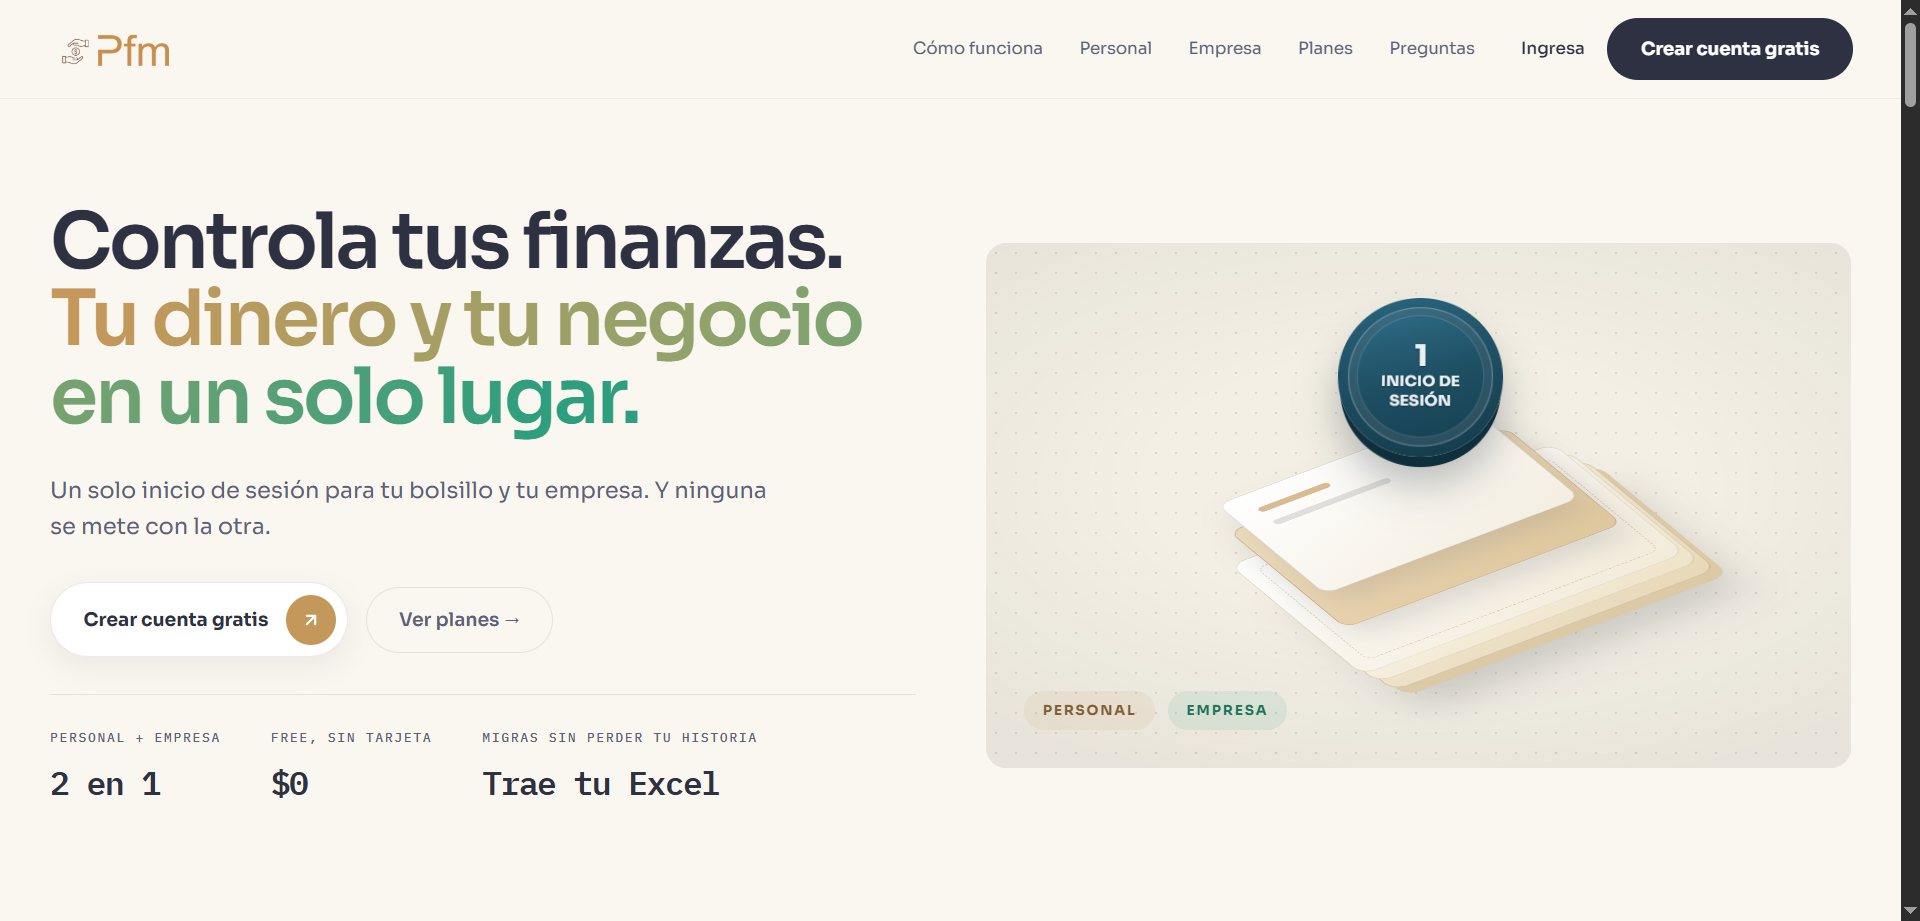
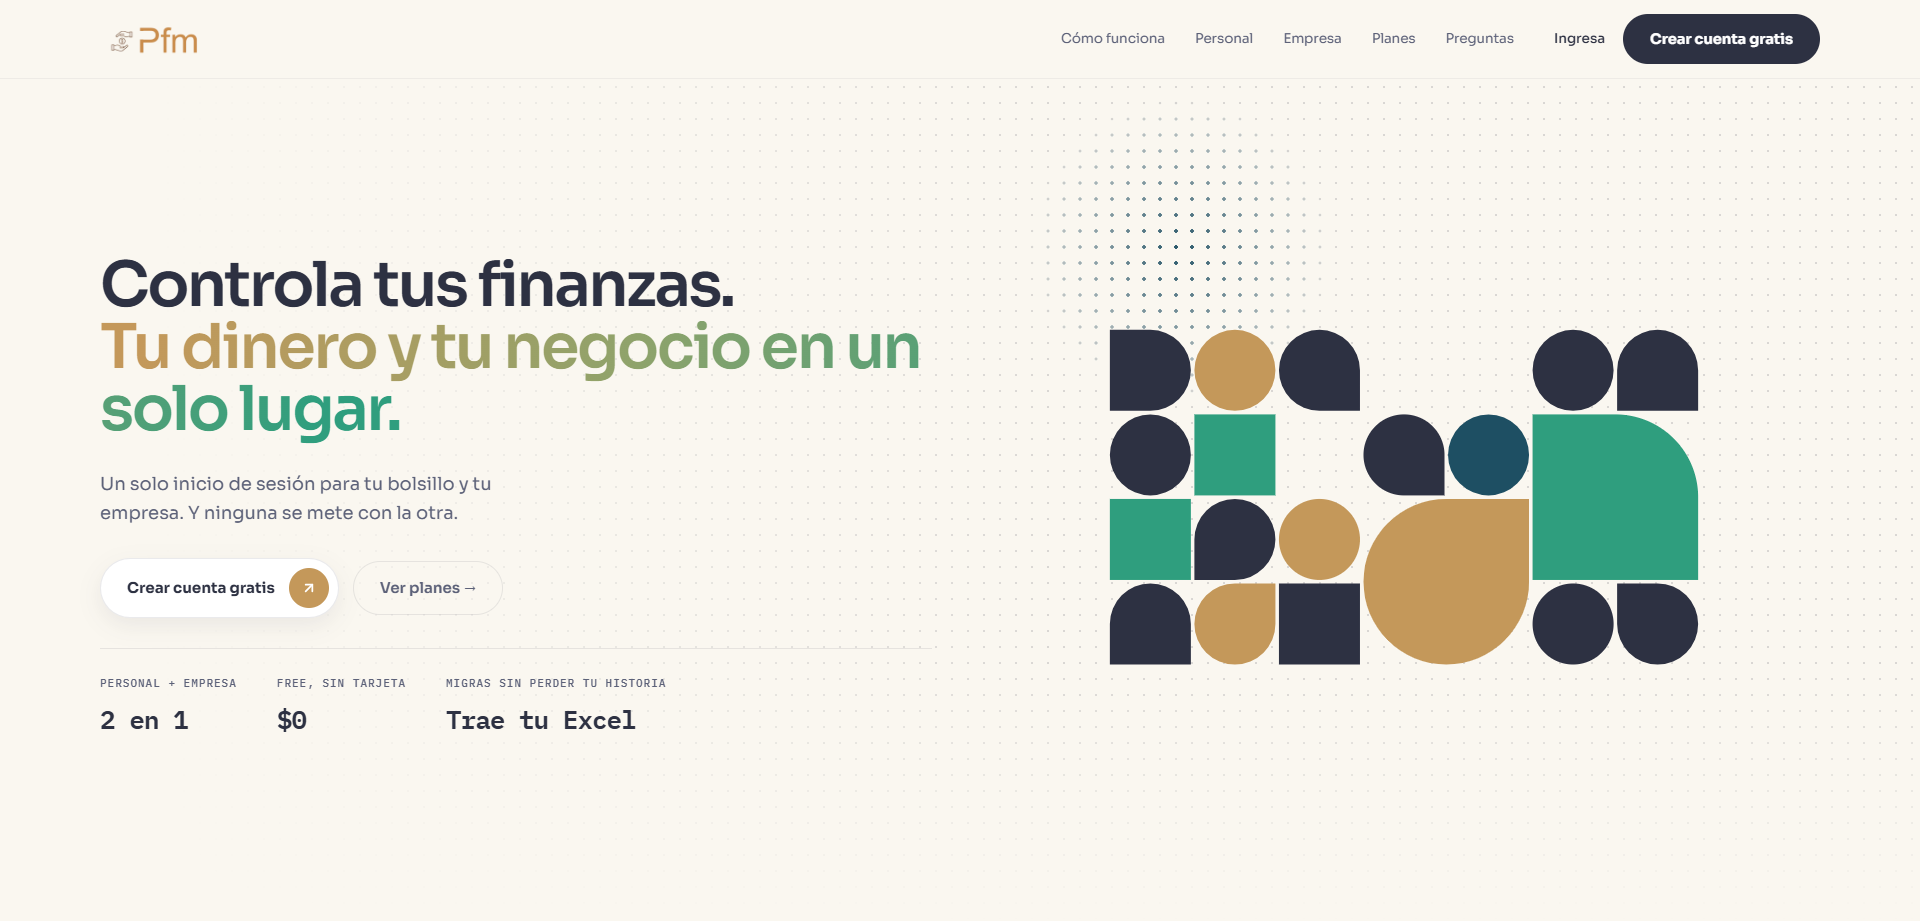
docs: la portada nueva y PFM Cnota en la vitrina
- 01-landing.png con el hero de la figura de módulos.
- Sección «PFM Cnota»: para quién es, qué hace, cómo se conecta con Pfm y
  cómo está hecha. Captura 15-cnota.png.
- Estado: Cnota en lo construido y su conexión en lo pendiente.

Igual al README del repositorio del proyecto, salvo dos cosas: no nombra la
ruta de la API de Cnota (en un repositorio público sería un mapa) y no enlaza
a carpetas de código, que aquí no existen.

diff --git a/README.md b/README.md
@@ -171,6 +171,60 @@ la importación dice **qué fila no pudo leer y por qué**, y si aun así sale m
 
 ---
 
+## PFM Cnota
+
+**Las cuentas del negocio del cuaderno, desde el celular.**
+
+Pfm le sirve a quien ya lleva cuentas. Cnota es para quien todavía las lleva en
+un cuaderno, o de memoria: la persona que teje, cultiva, cocina o vende en una
+feria y necesita saber **cuánto le quedó**, no aprender contabilidad. Es una
+aplicación aparte, hermana de Pfm, que se instala desde el navegador y
+**funciona sin señal**.
+
+<img src="docs/capturas/15-cnota.png" alt="Página de PFM Cnota: «Las cuentas de tu negocio, sin enredos»">
+
+<sub><b>PFM Cnota</b> · en piloto. Se entra con un código de invitación y es gratis.</sub>
+
+### Lo que hace
+
+| | |
+|---|---|
+| **Vendí y Gasté** | Dos botones. Una venta se anota tocando el producto; un gasto, escogiendo en qué fue y cuánto |
+| **Fiado** | Quién quedó debiendo y cuánto, y «Me pagó» cuando abona. Lo mismo con lo que el negocio debe |
+| **Productos y servicios** | Un producto se vende por unidad o por medida (libra, kilo, litro, metro). Un servicio se cobra por persona, por hora o a precio fijo, como un taller o un plan mensual |
+| **Para qué fue el gasto** | Un gasto puede ir «para» un producto, y la app dice cuánto se le ha gastado y si ya se recuperó. No es inventario: no descuenta material |
+| **Hoy** | Cómo va el mes —o el día—: lo vendido, lo gastado y lo que queda |
+| **Informes** | Por día, semana, mes o año, con lo que más se vendió y lo que más se compró |
+| **Copia de seguridad** | Las cuentas se guardan en un archivo y se recuperan en otro celular |
+
+La bienvenida pregunta a qué se dedica la persona y con eso arma la app: las
+medidas que ofrece, las categorías de gasto y el aspecto. No hay nada que
+configurar.
+
+### Cómo se conecta con Pfm
+
+Cnota está pensada como la puerta de entrada: lo que la persona anota en
+lenguaje llano —«vendí», «gasté», «me quedó debiendo»— Pfm lo recibe y lo
+convierte en asientos contables, para que una entidad de apoyo o un contador
+vean cuentas en regla sin que nadie haya tenido que aprender el PUC.
+
+- **El lado de Pfm está construido**: el alta por invitación, la recepción de lo
+  anotado y la entrada desde un segundo celular, con su contrato documentado.
+- **En el piloto la app corre sola.** Mientras Pfm no esté desplegado, Cnota se
+  publica sin servidor: todo lo anotado **se queda en el celular** y no sale de
+  él. Lo pendiente por enviar queda en cola para cuando haya a dónde.
+- **Lo que falta**: desplegar Pfm, encender la conexión y que un contador revise
+  la correspondencia entre lo que se anota y las cuentas contables.
+
+### Por dentro
+
+Es una PWA con Vite y Preact que guarda en IndexedDB y se sirve como archivos
+estáticos. Lleva **203 pruebas** propias
+(Vitest) y, antes de cada publicación, un revisor que la detiene si el paquete
+trae mapas de código, rutas del equipo, claves o rastros de Pfm.
+
+---
+
 ## Planes
 
 Al registrarte entras con **30 días de Pro incluidos**. Al terminar, la cuenta
@@ -377,6 +431,8 @@ Fiscal salieron de conversaciones con microempresarios.
   impuesto al consumo (formulario 310) e IVA de los activos fijos
 - Las cifras legales de cada año, con su registro normativo
 - Sitio público: mensaje, planes, preguntas, páginas legales y SEO técnico
+- PFM Cnota: la aplicación del celular (versión 0.7, en piloto cerrado por invitación)
+  y su lado en Pfm
 
 **Verificado**
 
@@ -394,6 +450,7 @@ Fiscal salieron de conversaciones con microempresarios.
 **Pendiente**
 
 - Ensayo con HTTPS, para cerrar lo que sin TLS no puede probarse
+- Conectar PFM Cnota con Pfm una vez desplegado, y la revisión de sus cuentas por un contador
 - Verificación de correo antes del período de prueba
 - Facturación electrónica con un proveedor tecnológico autorizado: hoy la factura
   sale como comprobante interno, sin CUFE

diff --git a/docs/capturas/LEEME.md b/docs/capturas/LEEME.md
@@ -53,6 +53,9 @@ Marcadas con ★ las que más cuentan si hay que elegir pocas.
 - ★ `13-capi.png` — el asistente
 - `14-importar-excel.png` — el salto desde la hoja de cálculo
 
+**PFM Cnota**
+- `15-cnota.png` — la página de Cnota en el sitio público
+
 ## Después
 
 Con las imágenes aquí, se acomodan en el `README.md` con su descripción.
